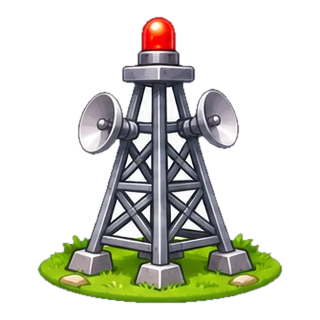
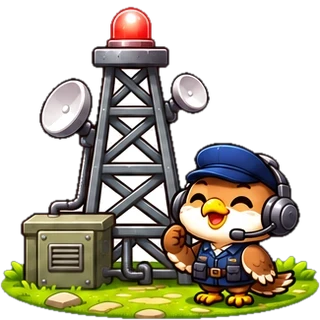
주둔지 시안 E(동물 직원) 적용: 건물 5채와 돌길 바닥
- 신병 소집 건물은 강아지를 뾰족 귀로 다시 그림
- 주둔지 바탕을 돌길 그림으로, 건물을 약 1.25배 크게

Claude-Session: https://claude.ai/code/session_017VP8BVWohypkUvNmKY1rp7

diff --git a/www/v2.css b/www/v2.css
@@ -92,3 +92,6 @@
 .v2 .sbtn:disabled { border-image-source: url(img/v2/ui_btn_gray.webp); color: #5c5c5c; opacity: 1; }
 /* 전투 화면: 전장 양옆은 캔버스가 땅 그림으로 채운다. 상태 표시줄 자리(위쪽 안전 영역)는 위쪽 표시줄과 이어지게 나무색 */
 .v2 #app { background: #4a2d14; }
+/* ── 주둔지: 시안 E(동물 직원, 2026-11-21 사용자 선택) — 건물마다 동물 병사가 서 있고, 바닥은 돌길 그림. 건물을 예전보다 크게 ── */
+.v2 .blds { background: url(img/v2/camp_base.webp) center bottom / 100% 100% no-repeat; border: 0; box-shadow: none; border-radius: 0; padding: 1.2rem 0.5rem 0.7rem; filter: drop-shadow(0 0.5rem 0.4rem rgba(10, 30, 20, .4)); }
+.v2 .bld svg, .v2 .bld img.bimg { max-width: calc(8.4rem * var(--bs, 1)); } .v2 .bld.main svg, .v2 .bld.main img.bimg { max-width: calc(11.2rem * var(--bs, 1)); }

diff --git a/art/sian/camp/apply.py b/art/sian/camp/apply.py
@@ -1,0 +1,17 @@
+"""고른 주둔지 시안(E 동물 직원, 2026-11-21 사용자 선택)을 게임에 넣는다. 사용: python3 -I art/sian/camp/cut.py && python3 -I art/sian/camp/apply.py
+ · 건물 4채는 cut/e_staff/, 신병 소집 건물은 raw_e_hq.png(강아지를 뾰족 귀로 다시 그린 것) → www/img/bld_<이름>.webp (320×320, 아래 가운데 맞춤)
+ · 바닥 판 → www/img/v2/camp_base.webp
+ · 둘러싸인 흰 바탕을 따로 지우는 단계는 두지 않는다 — 이 시안은 그런 곳이 없고, 순백을 지우면 캐릭터의 흰 얼굴·접시 안테나까지 뚫린다(한 번 그랬다)"""
+import sys, os
+from PIL import Image
+HERE = os.path.dirname(os.path.abspath(__file__)); ROOT = os.path.dirname(os.path.dirname(os.path.dirname(HERE)))
+sys.path.insert(0, os.path.join(ROOT, 'tools'))
+from cutout import matte
+def square(c, size=320):
+    c = c.crop(c.getchannel('A').point(lambda v: 255 if v > 24 else 0).getbbox()); s = max(c.size)
+    o = Image.new('RGBA', (s, s), (0, 0, 0, 0)); o.paste(c, ((s - c.width) // 2, s - c.height), c); return o.resize((size, size), Image.LANCZOS)
+for n in ['camp', 'up', 'pick', 'elite']:
+    Image.open(f'{HERE}/cut/e_staff/{n}.webp').convert('RGBA').save(f'{ROOT}/www/img/bld_{n}.webp', quality=90)
+hq = matte(Image.open(f'{HERE}/raw_e_hq.png').convert('RGB')); hq = hq[0] if isinstance(hq, tuple) else hq
+square(hq).save(f'{ROOT}/www/img/bld_summon.webp', quality=90)
+b = Image.open(f'{HERE}/cut/e_staff/base.webp').convert('RGBA'); b = b.resize((720, round(b.height * 720 / b.width)), Image.LANCZOS); b.save(f'{ROOT}/www/img/v2/camp_base.webp', quality=88); print('base', b.size)

diff --git a/docs/HANDOFF.md b/docs/HANDOFF.md
@@ -12,7 +12,16 @@
 > **게임 이름은 "털뭉치수비대"(붙여 쓴다)**, 아이콘은 시안 C(물개·강아지·참수리) — 2026-11-20 사용자 결정. 저장소 이름·앱 ID(`com.steey.soldierdefense`)·서버 이름·Notion 문서 제목은 옛 이름 그대로 둔다.
 > **세계관**: 털뭉치 마을을 동물 병사들이 고철 군단(기계)으로부터 지킨다. **군별 이름은 육군·해군·해병대·특공대·공군·의경 그대로 쓴다**(사용자: "땅개 부대·백호 부대 말고 육군·특공대 이렇게"). 캐릭터 동물은 육군 = 땅개(강아지)·해군 = 물개·해병대 = 악어·특공대 = 백호·공군 = 보라매·의경 = 참수리(`data.js`의 `animal`, 그림용). **계급과 병과 이름도 그대로 둔다**(사용자 지시). 이름 대응표는 `docs/DESIGN.md` 맨 아래.
 
-## 2026-11-21 — 주둔지(건물 줄) 시안 5가지 — 사용자 선택 대기, 적용 안 함
+## 2026-11-21 — 주둔지 시안 E(동물 직원) 적용
+**경위**: 시안 5가지를 본 사용자 — "E로 부탁해".
+**직접 한 작업**
+- 건물 4채(훈련소 악어 · 병과 강화 백호 · 보급창 물개 · 통신탑 보라매)는 시안 그림 그대로, **신병 소집 건물은 다시 그렸다**(Codex 1장) — 시안의 강아지가 처진 귀였는데 유닛·대기실의 육군 강아지는 뾰족 귀다. `art/sian/camp/apply.py` → `www/img/bld_*.webp`(320×320) · `www/img/v2/camp_base.webp`(돌길 바닥).
+- `v2.css`: 주둔지 바탕을 돌길 그림으로(예전의 지역 색 돌판 대신 — **모든 지역에서 같은 돌길**), 건물을 약 1.25배 크게.
+**검사**: 사용자 기기 크기(416×657)에서 확인(`art/sian/camp/applied.png`) — 전장은 324×405 → 320×400으로 거의 그대로. 주둔지 잘림 0(11가지 × 2), 화면 검사 26종 문제 0, `npm test` 통과, 보스전 지나 12라운드까지 오류 0.
+**도중에 낸 실수**: 둘러싸인 흰 바탕을 지우는 단계를 넣었다가 보라매의 흰 얼굴까지 뚫렸다 → 그 단계를 뺐다(이 시안에는 지울 곳이 없었다). 올리기 전에 그림을 보고 잡음.
+**남은 한계**: 건물 그림이 작게 보이는 화면에서는 동물이 잘 안 보일 수 있다. 간판이 건물 아래쪽(동물의 발)을 조금 가린다. 바닥은 지역이 바뀌어도 같은 돌길이다. `?art=1`(예전 그림)에서도 건물은 새 그림으로 나온다. 실제 기기 미확인.
+
+## 2026-11-21 — 주둔지(건물 줄) 시안 5가지 (E 선택됨)
 **경위**: 사용자(주둔지 화면을 보내며) — "여기도 Codex를 통해서 새롭게 이미지를 만들어 줄래? 총 5개 정도 시안을 보여 줘".
 **한 일**: Codex 그림 5장(실패 0). 시안마다 한 장에 건물 5채 + 바닥 판. 지시문 `art/sian/camp/jobs.py`, 원본 `raw/`, 자른 것 `cut/<시안>/`(`cut.py`), 게임 화면에 얹어 찍기 `mock.cjs`(게임 코드는 바꾸지 않고 화면에서만 그림을 갈아 끼운다), 비교 그림 `art/sian/camp/sian.jpg`.
 - A 숲속 마을(도토리·버섯·그루터기 집, 풀 언덕과 울타리) · B 통나무 진지(통나무·천막, 나무 마루) · C 장난감 기지(블록 건물, 돌 광장) · D 버튼형(건물 대신 큰 광택 버튼) · E 동물 직원(건물마다 동물 병사)
